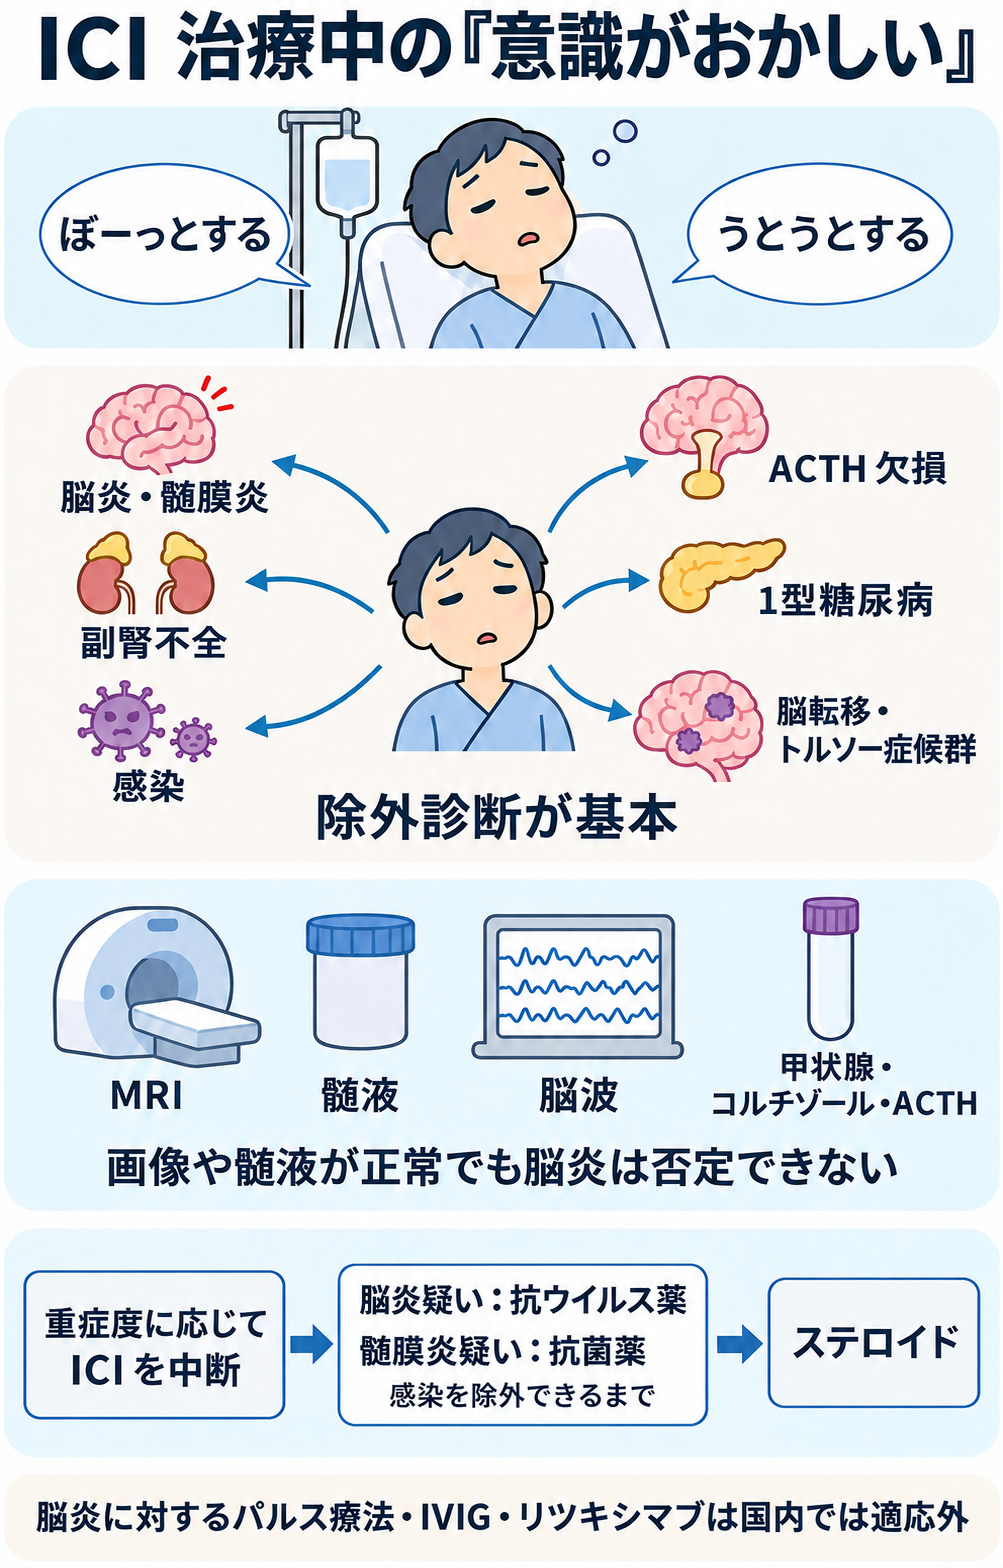
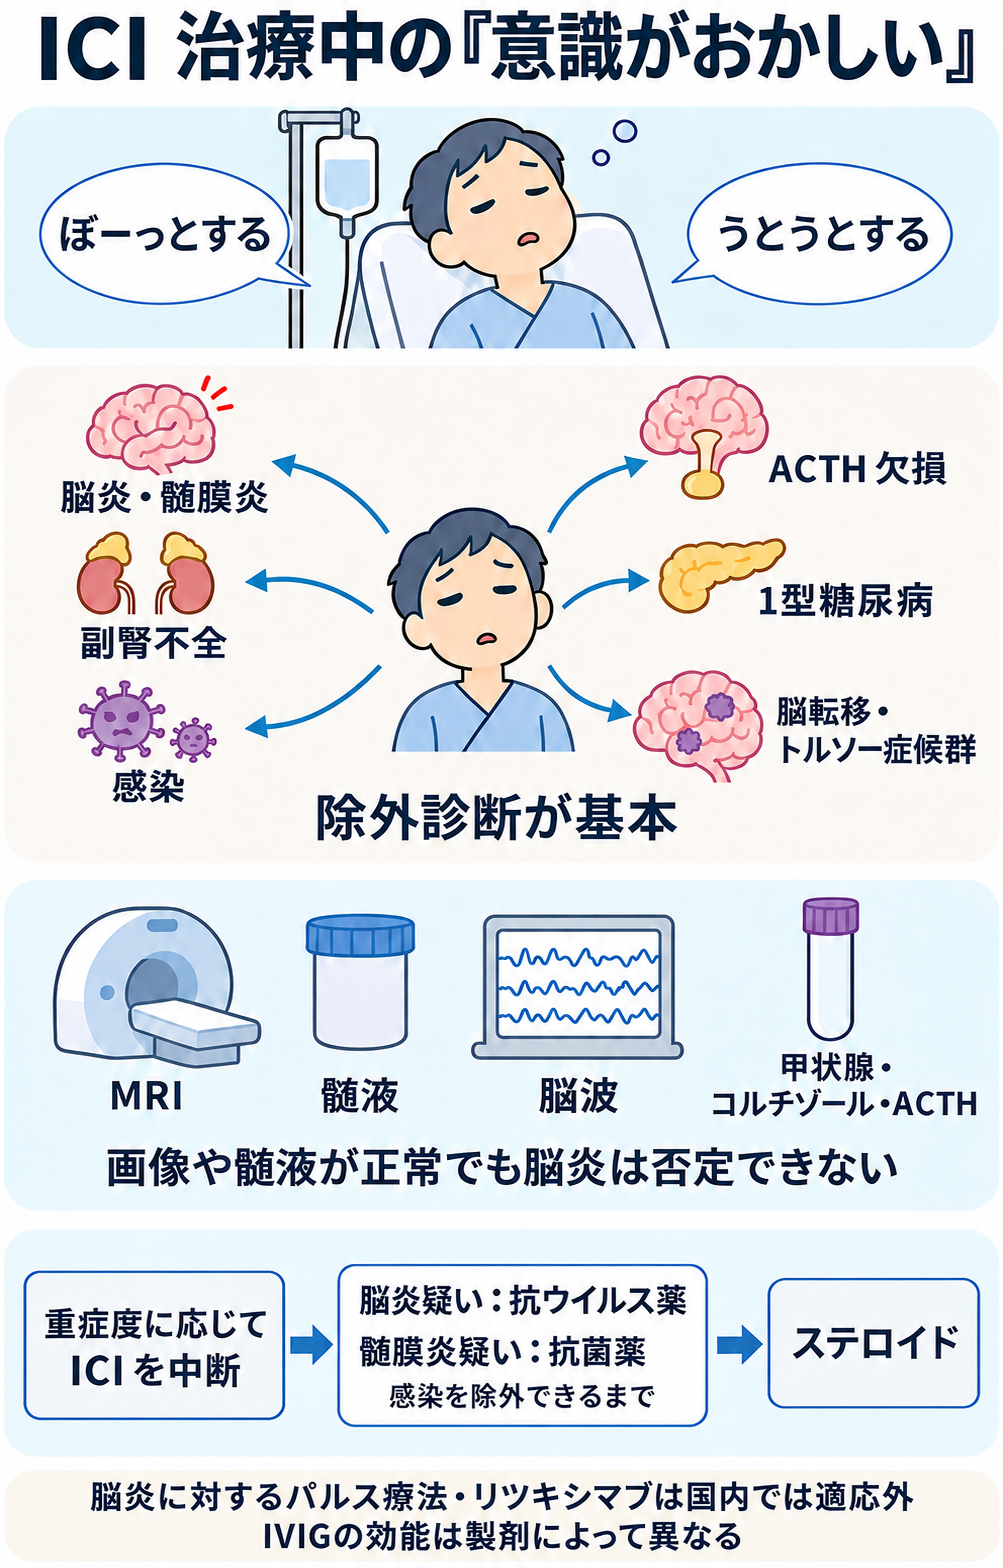
fix: ICI 記事インフォの帯を訂正（IVIG の効能は製剤によって異なる）

diff --git a/infographics/ici-encephalopathy-reference-repair-20261102/index.html b/infographics/ici-encephalopathy-reference-repair-20261102/index.html
@@ -12,7 +12,7 @@
 <h1>免疫チェックポイント阻害薬による意識障害：頻度・機序・臨床像・診断・治療・予後</h1>
 <p>記事全体の要点をまとめた図解です。数値・対象・限界は<a href="https://blog.ichisouzo-lab.com/entry/2025/10/20/214727">解説記事</a>の本文と参考文献をご確認ください。</p>
 <figure id="figure-1">
-<a href="infographic.png" target="_blank" rel="noopener"><img src="infographic.png" alt="免疫チェックポイント阻害薬（ICI）で治療中に「ぼーっとする」「うとうとする」ときの考え方の図解。脳炎・髄膜炎だけでなく、ACTH 欠損、副腎不全、1型糖尿病、感染、脳転移・トルソー症候群を並べて考え、除外診断を基本にする。MRI・髄液・脳波と、甲状腺・コルチゾール・ACTH の検査を進め、画像や髄液が正常でも脳炎は否定できない。治療は重症度に応じて ICI を中断し、脳炎疑いでは抗ウイルス薬、髄膜炎疑いでは抗菌薬を感染を除外できるまで並行して、ステロイドを始める。脳炎に対するパルス療法・IVIG・リツキシマブは国内では適応外" width="1003" height="1568"></a>
+<a href="infographic.png" target="_blank" rel="noopener"><img src="infographic.png" alt="免疫チェックポイント阻害薬（ICI）で治療中に「ぼーっとする」「うとうとする」ときの考え方の図解。脳炎・髄膜炎だけでなく、ACTH 欠損、副腎不全、1型糖尿病、感染、脳転移・トルソー症候群を並べて考え、除外診断を基本にする。MRI・髄液・脳波と、甲状腺・コルチゾール・ACTH の検査を進め、画像や髄液が正常でも脳炎は否定できない。治療は重症度に応じて ICI を中断し、脳炎疑いでは抗ウイルス薬、髄膜炎疑いでは抗菌薬を感染を除外できるまで並行して、ステロイドを始める。脳炎に対するパルス療法・リツキシマブは国内では適応外で、IVIG の効能は製剤によって異なる" width="1003" height="1568"></a>
 <figcaption>ICI 治療中の意識の変化：並べて考える原因、調べること、始めること</figcaption>
 <p><a href="infographic.png" target="_blank" rel="noopener">画像を原寸で開く</a></p>
 </figure>

diff --git a/sw.js b/sw.js
@@ -1,4 +1,4 @@
-const CACHE_NAME = 'ddx-tools-v326';
+const CACHE_NAME = 'ddx-tools-v327';
 const ASSETS = [
   './cerebral_calcification.html',
   './infographics/asymptomatic-carotid-vertebral-stenosis/index.html',
